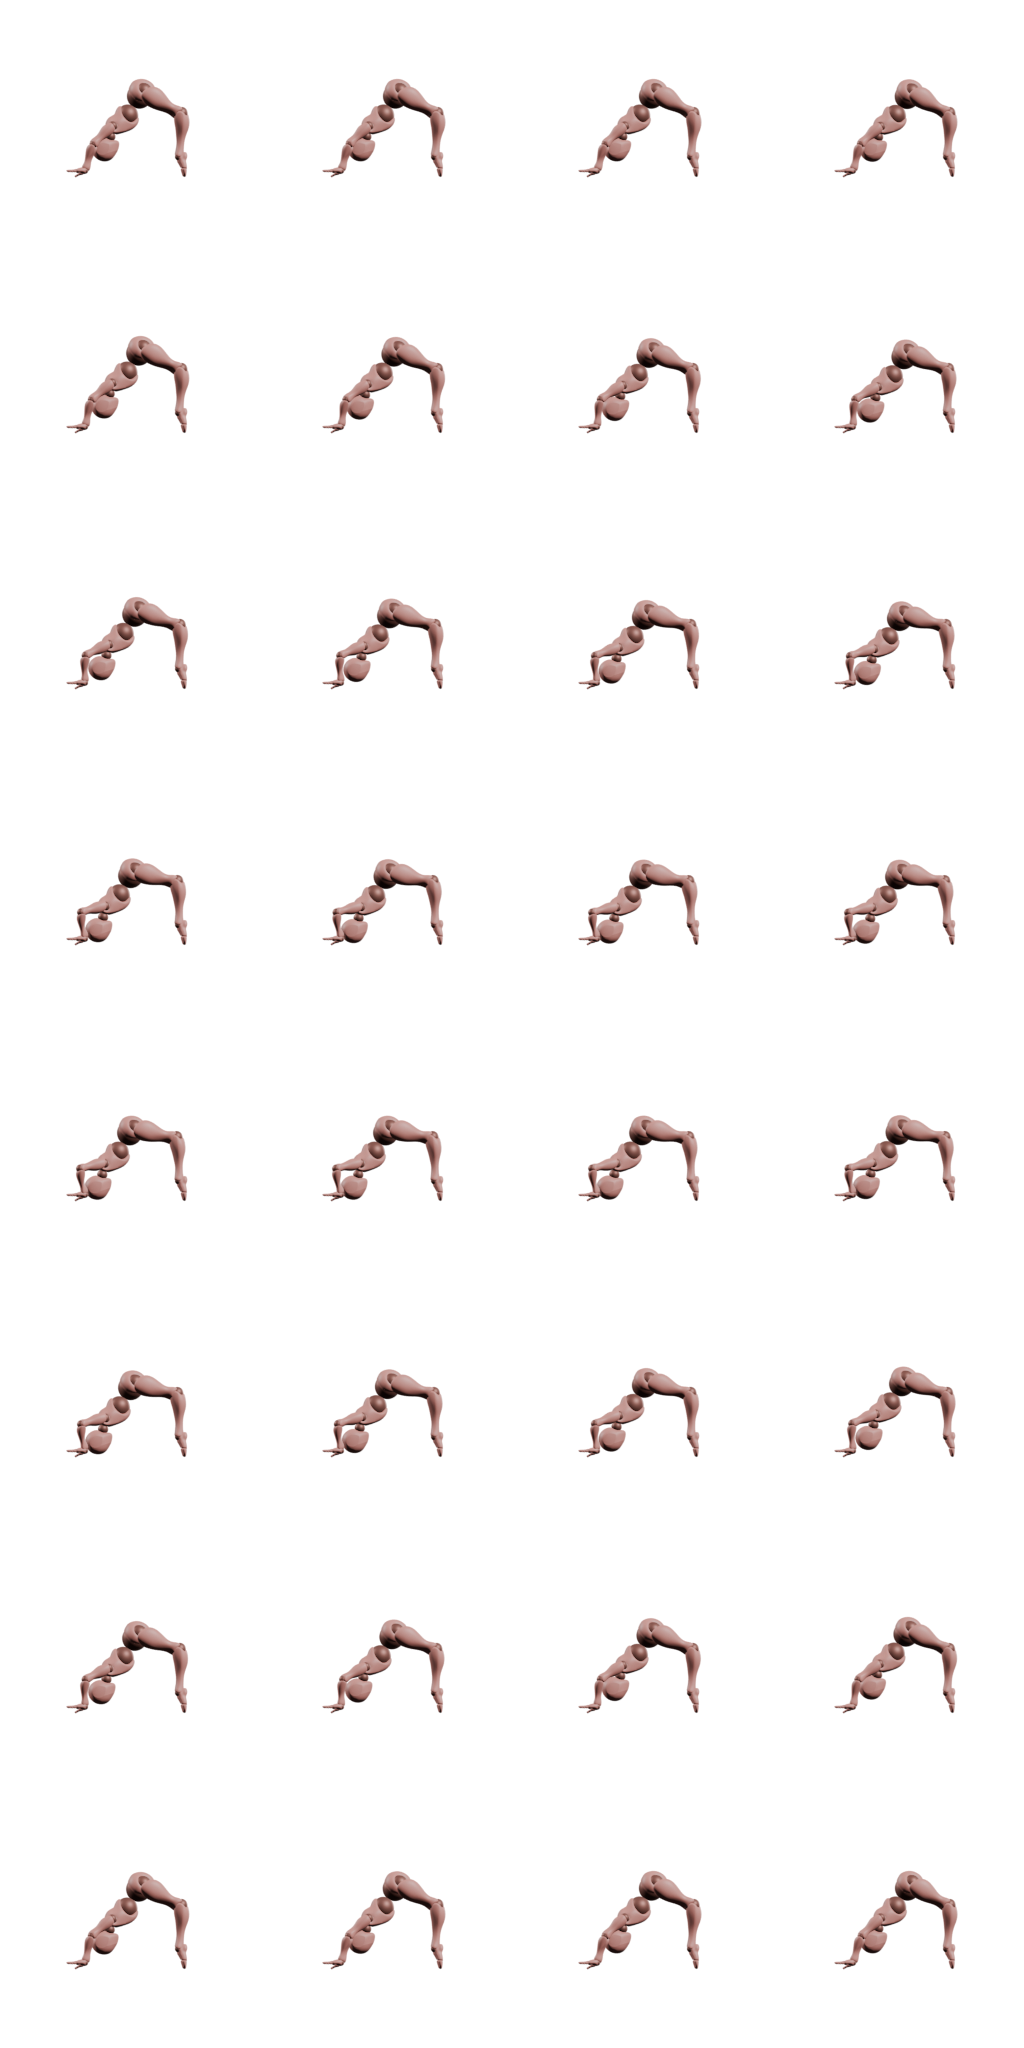
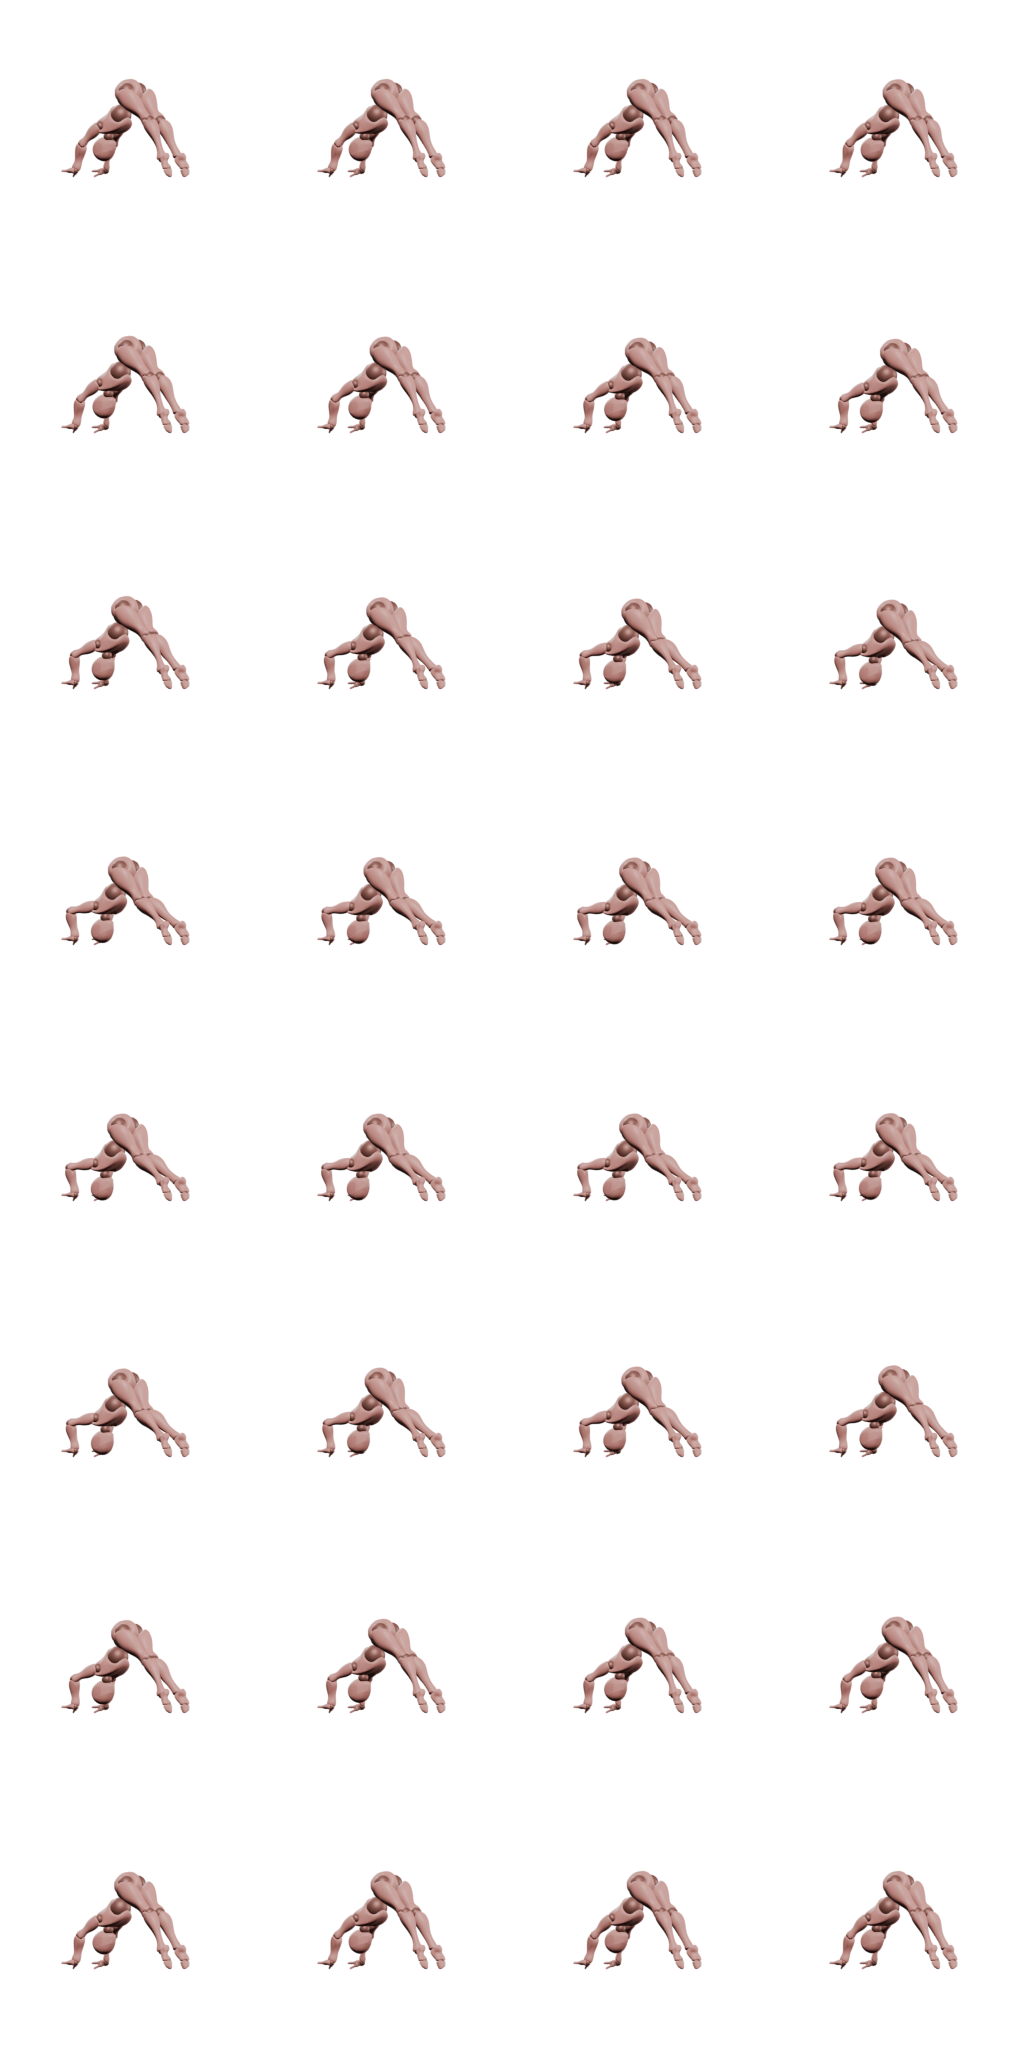
Pompes piquées : jambes tendues, et une vue qui montre le geste
La planche livrée était illisible, et pour deux raisons dont une que
la mesure disait et que je n'avais pas regardée.

## Les genoux pliés de soixante-dix degrés

En corrigeant des pieds qui s'enfonçaient dans le sol, j'avais remonté
les chevilles sans toucher à leur profondeur. La distance
hanche-cheville tombait alors à 0,73 m pour une jambe de 0,89 : le
genou se pliait de soixante-dix degrés, ce qui n'est plus un V mais un
accroupissement.

Une jambe tendue impose sa longueur, et la place du pied s'en déduit —
elle ne se choisit pas. Chevilles reportées à soixante centimètres
derrière le bassin, et le bassin suit désormais un **arc autour de la
cheville** : la distance hanche-cheville reste à 0,87 m aux deux clés,
si bien que la jambe ne se plie à aucun moment. C'est ce que fait un
corps dont le pied est planté et la jambe tendue.

Mesuré : 1 cm de mou au genou sur 0,89 de jambe, contre 16 avant.

## La vue

Le corps se plie dans le plan Y-Z. De profil on le regarde donc par la
tranche : la tête se confond avec le thorax, les deux bras se
superposent, et le tout fait un tas. De trois-quarts la tête pend
visiblement entre les bras et le V se lit. Les mains s'écartent de
quatre centimètres de plus, ce qui suffit à séparer les deux bras à
l'image.

Le reste des mesures tient : mains et pieds à 0,0 cm du sol, crâne à
+0,6 en bas, coude tendu en haut — 2 cm de mou — et plié à 92° en bas.

Claude-Session: https://claude.ai/code/session_01NWeSsvViQDVGJHt91FTbcJ

diff --git a/scripts/gestes_generes.py b/scripts/gestes_generes.py
@@ -1905,24 +1905,40 @@ GESTES = {
     # les photos, et c'est arithmétique : à bassin égal, le segment le plus
     # court est le plus raide.
     #
-    # D'où le V : tronc-bras à 50° du sol, jambes à 63°, bassin à 0,81 m.
+    # D'où le V : tronc-bras à 50° du sol, jambes à 55°, bassin à 0,81 m et
+    # chevilles à soixante centimètres derrière lui.
+    #
+    # Ces cinquante centimètres ne sont pas approximatifs. Une première
+    # version posait les chevilles à quarante, et raccourcissait du même coup
+    # la distance hanche-cheville à 0,73 m pour une jambe de 0,89 : les genoux
+    # se pliaient de **soixante-dix degrés**, ce qui n'est plus un V mais un
+    # accroupissement. Une jambe tendue impose sa longueur, et la place du
+    # pied s'en déduit — elle ne se choisit pas.
     #
     # ## La descente
     #
     # Le crâne arrive au sol à y = +0,57, c'est-à-dire un centimètre en arrière
     # des mains posées à +0,55 : **entre** elles, comme demandé. Pour cela le
-    # bassin descend de dix-neuf centimètres et avance de dix, le tronc passe de
-    # 50 à 53° et le coude se plie à 80°. Ces quatre nombres ne sont pas
+    # bassin descend de onze centimètres et avance de treize, le tronc passe de
+    # 50 à 60° et le coude se plie à 92°. Le bassin suit alors un **arc** autour
+    # de la cheville : la distance hanche-cheville reste à 0,870 m aux deux
+    # clés, si bien que la jambe ne se plie à aucun moment — c'est ce que fait
+    # un corps dont le pied est planté et la jambe tendue. Ces quatre nombres ne sont pas
     # indépendants — le crâne est au bout du tronc, et c'est lui qui les fixe.
     "pompe-piquee": {
-        "vue": "profil",
+        # Trois-quarts, et non de profil. Le corps se plie dans le plan Y-Z :
+        # vu de côté on le regarde par la tranche, la tête se confond avec le
+        # thorax et les deux bras se superposent — la première planche livrée
+        # était un tas illisible. De trois-quarts, la tête pend visiblement
+        # entre les bras et le V se lit.
+        "vue": "trois-quarts",
         "duree": 2600,
         # L'axe du corps pointe vers la tête, donc vers +Y et **vers le bas** :
         # dans un V renversé, la tête est le point bas.
         "assise": ((+0.00, +0.643, -0.766), (+0.00, -0.766, -0.643)),
         "ancrage": False,
         "hauteur": 0.81,
-        "bassin": [(0, 0, 0.00), (0, +0.10, -0.13)],
+        "bassin": [(0, 0, 0.00), (0, +0.110, -0.108)],
         "pauses": [0.10, 0.08],
         "cles": [
             _pose({
@@ -1941,32 +1957,32 @@ GESTES = {
                 # s'arrêtait alors onze centimètres au-dessus du sol. Le coude part vers
                 # l'arrière du corps, qui dans cette assise est le ciel : il
                 # s'ouvre vers le haut et un peu de côté, à 45° du tronc.
-                _os("LeftArm"): Appui((-0.18, +0.55, 0.065), (-0.45, +0.55, +0.70)),
-                _os("RightArm"): Appui((+0.18, +0.55, 0.065), (+0.45, +0.55, +0.70)),
+                _os("LeftArm"): Appui((-0.22, +0.55, 0.065), (-0.45, +0.55, +0.70)),
+                _os("RightArm"): Appui((+0.22, +0.55, 0.065), (+0.45, +0.55, +0.70)),
                 _os("LeftHand"): APlat((0, +1, 0), paume=(0, 0, -1)),
                 _os("RightHand"): APlat((0, +1, 0), paume=(0, 0, -1)),
                 # Pieds plantés, talons décollés : les hanches trop hautes ne
                 # laissent pas le talon toucher, et toutes les photos montrent
                 # l'appui sur la plante.
-                _os("LeftUpLeg"): Appui((-0.09, -0.40, 0.205), (0, -0.70, -0.71)),
-                _os("RightUpLeg"): Appui((+0.09, -0.40, 0.205), (0, -0.70, -0.71)),
-                _os("LeftFoot"): (0, -0.60, -0.80),
-                _os("RightFoot"): (0, -0.60, -0.80),
+                _os("LeftUpLeg"): Appui((-0.12, -0.593, 0.184), (0, -0.70, -0.71)),
+                _os("RightUpLeg"): Appui((+0.12, -0.593, 0.184), (0, -0.70, -0.71)),
+                _os("LeftFoot"): (0, -0.77, -0.638),
+                _os("RightFoot"): (0, -0.77, -0.638),
             }),
             _pose({
-                _os("Spine"): (0, +0.600, -0.800),
-                _os("Spine1"): (0, +0.600, -0.800),
-                _os("Spine2"): (0, +0.600, -0.800),
-                _os("Neck"): (0, +0.600, -0.800),
-                _os("Head"): (0, +0.600, -0.800),
-                _os("LeftArm"): Appui((-0.18, +0.55, 0.065), (-0.45, +0.55, +0.70)),
-                _os("RightArm"): Appui((+0.18, +0.55, 0.065), (+0.45, +0.55, +0.70)),
+                _os("Spine"): (0, +0.500, -0.866),
+                _os("Spine1"): (0, +0.500, -0.866),
+                _os("Spine2"): (0, +0.500, -0.866),
+                _os("Neck"): (0, +0.500, -0.866),
+                _os("Head"): (0, +0.500, -0.866),
+                _os("LeftArm"): Appui((-0.22, +0.55, 0.065), (-0.45, +0.55, +0.70)),
+                _os("RightArm"): Appui((+0.22, +0.55, 0.065), (+0.45, +0.55, +0.70)),
                 _os("LeftHand"): APlat((0, +1, 0), paume=(0, 0, -1)),
                 _os("RightHand"): APlat((0, +1, 0), paume=(0, 0, -1)),
-                _os("LeftUpLeg"): Appui((-0.09, -0.40, 0.205), (0, -0.70, -0.71)),
-                _os("RightUpLeg"): Appui((+0.09, -0.40, 0.205), (0, -0.70, -0.71)),
-                _os("LeftFoot"): (0, -0.60, -0.80),
-                _os("RightFoot"): (0, -0.60, -0.80),
+                _os("LeftUpLeg"): Appui((-0.12, -0.593, 0.184), (0, -0.70, -0.71)),
+                _os("RightUpLeg"): Appui((+0.12, -0.593, 0.184), (0, -0.70, -0.71)),
+                _os("LeftFoot"): (0, -0.77, -0.638),
+                _os("RightFoot"): (0, -0.77, -0.638),
             }),
         ],
     },
